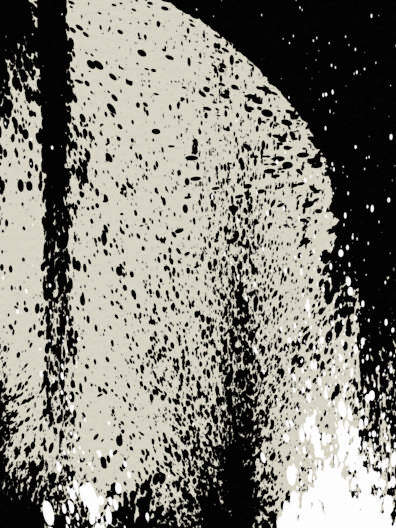
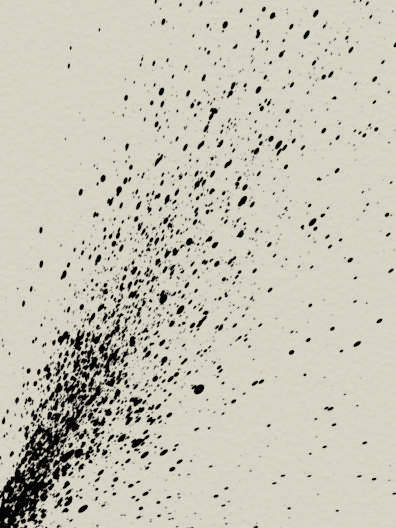
pics pupdate

diff --git a/content/hub/about/inking.th.md b/content/hub/about/inking.th.md
@@ -3,7 +3,7 @@ title: "การใช้หมึก"
 type: docs
 weight: 4
 ---
-พื้นที่ทำงาน Inking ถูกสร้างขึ้นสำหรับงานสายโดยเจตนา เป็นขั้นตอนที่การวาดภาพหยุดเป็นเพียงการสำรวจและเริ่มมุ่งมั่น: การควบคุมจังหวะ ความคมชัดของขอบที่ชัดเจน และเครื่องหมายที่ต้องรักษารูปร่างด้วยความมั่นใจ
+พื้นที่ทำงาน Inking ถูกสร้างขึ้นสำหรับการทำงานตามเส้นโดยเจตนาหรือความวุ่นวายที่วุ่นวาย เป็นขั้นตอนที่การวาดภาพหยุดเป็นเพียงการสำรวจและเริ่มมุ่งมั่น: การควบคุมจังหวะ ความคมชัดของขอบที่ชัดเจน และเครื่องหมายที่ต้องรักษารูปร่างด้วยความมั่นใจ หรือปล่อยตัวไปกับการสาดน้ำ เส้นเป็นวง รอยขีดข่วนปลายปากกาแห้ง และลายเส้นซูมิที่ดุร้าย
 
 ด้านล่างนี้คือเครื่องมือและโหมดบางส่วนที่ทำให้สิ่งนี้เป็นไปได้
 
@@ -18,7 +18,7 @@ weight: 4
 
 ## พรีเซ็ตการประดิษฐ์ตัวอักษร
 
-โหมดการเขียนลายมือบรรจงจะเปลี่ยนเครื่องมือแปรงเป็นการลากปากกาสิ่วอย่างต่อเนื่อง แทนที่จะเป็นการตบเบาๆ เป็นแถว ค่าที่ตั้งไว้ล่วงหน้าเกี่ยวกับการประดิษฐ์ตัวอักษรที่แถมมายังใช้มุมเอียงของสไตลัสเป็นแกนพิเศษในการควบคุม ดังนั้นการลากจึงไม่เพียงตอบสนองต่อแรงกดเท่านั้น แต่ยังรวมถึงวิธีการจับปากกาอีกด้วย มีประโยชน์สำหรับเครื่องหมายที่มีรูปทรงแน่นหนาซึ่งจำเป็นต้องอ่านเป็นริบบิ้นหมึกเส้นเดียว แม้ว่ามุมและแรงกดจะเปลี่ยนไปก็ตาม
+โหมดการเขียนลายมือบรรจงจะเปลี่ยนเครื่องมือแปรงเป็นการลากปากกาสิ่วอย่างต่อเนื่อง แทนที่จะเป็นการตบเบาๆ เป็นแถว ค่าที่ตั้งไว้ล่วงหน้าเกี่ยวกับการประดิษฐ์ตัวอักษรที่แถมมายังใช้มุมเอียงของสไตลัสเป็นแกนพิเศษในการควบคุม ดังนั้นการลากจึงไม่เพียงตอบสนองต่อแรงกดเท่านั้น แต่ยังรวมถึงวิธีการจับปากกาด้วย มีประโยชน์สำหรับเครื่องหมายที่มีรูปทรงแน่นหนาซึ่งจำเป็นต้องอ่านเป็นริบบิ้นหมึกเส้นเดียว แม้ว่ามุมและแรงกดจะเปลี่ยนไปก็ตาม
 
 ![calligraphic-01](/images/strokes/ink-calligraphic_share.jpg)
 
@@ -50,4 +50,4 @@ weight: 4
 
 ออกแบบมาสำหรับการสะบัดท่าทางและสเปรย์กระจายทิศทาง ขึ้นอยู่กับความเร็ว แรงกด และระยะห่าง จังหวะอาจมีตั้งแต่การกระจายเล็กน้อยและเบาไปจนถึงหยดที่หนักกว่า มีประโยชน์สำหรับงานพื้นผิวและการตกแต่งขั้นสุดท้ายที่แสดงออก
 
-![flick-01](/images/strokes/flick_final_compressed.jpg)
+![flick-01](/images/strokes/flick_share.jpg)

diff --git a/content/hub/about/inking.fr.md b/content/hub/about/inking.fr.md
@@ -3,7 +3,7 @@ title: "Encrage"
 type: docs
 weight: 4
 ---
-L’espace de travail Encrage est conçu pour un travail en ligne délibéré. C'est l'étape où le dessin cesse d'être exploratoire et commence à devenir engagé : des traits contrôlés, une définition claire des bords et des marques qui doivent conserver leur forme en toute confiance.
+L’espace de travail Inking est conçu pour le travail en ligne délibéré ou le chaos d’encre. C'est l'étape où le dessin cesse d'être exploratoire et commence à devenir engagé : des traits contrôlés, une définition claire des bords et des marques qui doivent conserver leur forme en toute confiance. Ou tout simplement lâchez-vous avec des éclaboussures expressives, des lignes en boucle, des rayures à la plume sèche et des traits de sumi sauvages.
 
 Vous trouverez ci-dessous quelques-uns des outils et modes qui rendent cela possible.
 
@@ -42,7 +42,7 @@ Inspiré de la plume Waverly, le préréglage tolère des mouvements rapides et 
 
 ## Astuce prédéfinie
 
-La ligne morte d’un stylo à dessin technique. Largeur constante, bords nets et peu ou pas de variation de trait. Utile pour les lignes de construction, les diagrammes, le lettrage et les travaux graphiques contrôlés où l'uniformité compte plus que l'expression. Certaines de nos animations préférées utilisent cette ligne.
+La ligne morte d'un stylo à dessin technique. Largeur constante, bords nets et peu ou pas de variation de trait. Utile pour les lignes de construction, les diagrammes, le lettrage et les travaux graphiques contrôlés où l'uniformité compte plus que l'expression. Certaines de nos animations préférées utilisent cette ligne.
 
 ![ink-03](/images/strokes/ink-tip_share.jpg)
 
@@ -50,4 +50,4 @@ La ligne morte d’un stylo à dessin technique. Largeur constante, bords nets e
 
 Conçu pour les gestes effleurants et les pulvérisations directionnelles dispersées. En fonction de la vitesse, de la pression et de l'espacement, les coups peuvent aller d'une diffusion subtile et légère à des gouttelettes plus lourdes. Utile pour le travail de texture et les touches finales expressives.
 
-![flick-01](/images/strokes/flick_final_compressed.jpg)
+![flick-01](/images/strokes/flick_share.jpg)

diff --git a/content/hub/about/inking.ru.md b/content/hub/about/inking.ru.md
@@ -3,7 +3,7 @@ title: "Чернила"
 type: docs
 weight: 4
 ---
-Рабочее пространство Inking создано для целенаправленной работы с линиями. Это этап, на котором рисунок перестает быть исследовательским и начинает становиться целенаправленным: контролируемые штрихи, четкое определение краев и отметки, которые должны уверенно сохранять свою форму.
+Рабочее пространство для рукописного ввода создано для продуманной работы с линиями или для создания чернильного хаоса. Это этап, на котором рисунок перестает быть исследовательским и начинает становиться целенаправленным: контролируемые штрихи, четкое определение краев и отметки, которые должны уверенно сохранять свою форму. Или просто дайте волю выразительным брызгам, петляющим линиям, царапинам сухим пером и диким мазкам суми.
 
 Ниже приведены некоторые инструменты и режимы, которые делают это возможным.
 
@@ -50,4 +50,4 @@ weight: 4
 
 Предназначен для жестов и рассеянных направленных распылений. В зависимости от скорости, давления и расстояния удары могут варьироваться от тонких и легких разброса до более тяжелых капель. Полезен для текстурных работ и выразительных завершающих штрихов.
 
-![flick-01](/images/strokes/flick_final_compressed.jpg)
+![flick-01](/images/strokes/flick_share.jpg)

diff --git a/content/hub/made-in-lumio/_index.th.md b/content/hub/made-in-lumio/_index.th.md
@@ -2,4 +2,6 @@
 title: "ผลิตในลูมิ-โอ"
 type: docs
 ---
-Lumi ได้รับการพัฒนาผ่านการใช้งานในชีวิตประจำวัน ดังนั้นภาพวาด การศึกษา และผลงานการผลิตที่แสดงที่นี่จึงไม่ใช่การจำลองทางการตลาด นี่เป็นตัวอย่างประเภทของรูปภาพที่ซอฟต์แวร์ได้รับการจัดรูปแบบเพื่อรองรับ
+Lumi ได้รับการพัฒนาผ่านการใช้งานในชีวิตประจำวัน ดังนั้นภาพวาด การศึกษา และผลงานการผลิตที่แสดงที่นี่จึงไม่ใช่การจำลองทางการตลาด นี่เป็นตัวอย่างประเภทของรูปภาพที่ซอฟต์แวร์ได้รับการจัดรูปแบบเพื่อรองรับ ส่วนนี้ยังคงกระจัดกระจายและพัฒนา แต่เมื่อเวลาผ่านไปส่วนนี้จะเติบโตไปพร้อมกับ Lumi เองเมื่อแอปพลิเคชันมีรูปแบบที่เสถียรมากขึ้น
+
+![loops](/images/gallery/loops.jpg)

diff --git a/content/hub/about/inking.pl.md b/content/hub/about/inking.pl.md
@@ -3,7 +3,7 @@ title: "Tuszowanie"
 type: docs
 weight: 4
 ---
-Przestrzeń robocza Inking została stworzona z myślą o celowej pracy liniowej. Jest to etap, na którym rysowanie przestaje być odkrywcze, a zaczyna wymagać zaangażowania: kontrolowane pociągnięcia, wyraźna definicja krawędzi i znaki, które muszą pewnie trzymać swój kształt.
+Przestrzeń robocza Inking została stworzona z myślą o celowej pracy liniowej lub atramentowym chaosie. Jest to etap, na którym rysowanie przestaje być odkrywcze, a zaczyna wymagać zaangażowania: kontrolowane pociągnięcia, wyraźna definicja krawędzi i znaki, które muszą pewnie trzymać swój kształt. Lub po prostu uwolnij się dzięki wyrazistemu rozpryskiwaniu, zapętlonym liniom, zadrapaniom suchą stalówką i dzikim uderzeniom sumi.
 
 Poniżej znajdują się niektóre narzędzia i tryby, które to umożliwiają.
 
@@ -50,4 +50,4 @@ Martwa linia pióra do rysowania technicznego. Stała szerokość, czyste krawę
 
 Zaprojektowany do wykonywania gestów i rozproszonych sprayów kierunkowych. W zależności od prędkości, ciśnienia i odstępów, uderzenia mogą wahać się od subtelnego i lekkiego rozproszenia po cięższe rzucane kropelki. Przydatny do prac teksturalnych i wyrazistych wykończeń.
 
-![flick-01](/images/strokes/flick_final_compressed.jpg)
+![flick-01](/images/strokes/flick_share.jpg)

diff --git a/content/hub/about/inking.it.md b/content/hub/about/inking.it.md
@@ -3,7 +3,7 @@ title: "Inchiostrazione"
 type: docs
 weight: 4
 ---
-L'area di lavoro Inchiostrazione è progettata per il lavoro in linea intenzionale. È la fase in cui il disegno smette di essere esplorativo e inizia a diventare impegnativo: tratti controllati, definizione chiara dei bordi e segni che devono mantenere la loro forma con sicurezza.
+L'area di lavoro di inchiostrazione è progettata per lavori di linea intenzionali o caos di inchiostro. È la fase in cui il disegno smette di essere esplorativo e inizia a diventare impegnativo: tratti controllati, definizione chiara dei bordi e segni che devono mantenere la loro forma con sicurezza. Oppure semplicemente scatenati con schizzi espressivi, linee sinuose, graffi con pennino asciutto e tratti selvaggi di sumi.
 
 Di seguito sono riportati alcuni degli strumenti e delle modalità che lo rendono possibile.
 
@@ -50,4 +50,4 @@ La linea morta di un pennarello da disegno tecnico. Larghezza uniforme, bordi pu
 
 Progettato per gesti rapidi e getti direzionali sparsi. A seconda della velocità, della pressione e della spaziatura, i tratti possono variare da una dispersione lieve e leggera a goccioline lanciate più pesanti. Utile per lavori materici e ritocchi finali espressivi.
 
-![flick-01](/images/strokes/flick_final_compressed.jpg)
+![flick-01](/images/strokes/flick_share.jpg)

diff --git a/content/hub/about/inking.de.md b/content/hub/about/inking.de.md
@@ -3,7 +3,7 @@ title: "Einfärben"
 type: docs
 weight: 4
 ---
-Der Freihand-Arbeitsbereich ist für bewusste Linienarbeit konzipiert. Es ist die Phase, in der das Zeichnen aufhört, forschend zu sein, und beginnt, sich zu engagieren: kontrollierte Striche, klare Kantendefinition und Markierungen, die ihre Form souverän beibehalten müssen.
+Der Freihand-Arbeitsbereich ist für bewusste Linienarbeit oder Tintenchaos konzipiert. Es ist die Phase, in der das Zeichnen aufhört, forschend zu sein, und beginnt, sich zu engagieren: kontrollierte Striche, klare Kantendefinition und Markierungen, die ihre Form souverän beibehalten müssen. Oder lassen Sie sich einfach mit ausdrucksstarken Spritzern, geschlungenen Linien, trockenen Federkratzern und wilden Sumi-Strichen austoben.
 
 Nachfolgend finden Sie einige der Tools und Modi, die dies ermöglichen.
 
@@ -50,4 +50,4 @@ Die Deadline eines technischen Zeichenstifts. Gleichbleibende Breite, saubere Ka
 
 Konzipiert für schnippende Gesten und verstreute Richtungssprays. Je nach Geschwindigkeit, Druck und Abstand können die Striche von subtiler und leichter Streuung bis hin zu schwereren Tröpfchen reichen. Nützlich für Strukturarbeiten und ausdrucksstarke Feinarbeiten.
 
-![flick-01](/images/strokes/flick_final_compressed.jpg)
+![flick-01](/images/strokes/flick_share.jpg)

diff --git a/content/hub/about/inking.es.md b/content/hub/about/inking.es.md
@@ -3,7 +3,7 @@ title: "entintado"
 type: docs
 weight: 4
 ---
-El espacio de trabajo Inking está diseñado para el trabajo de líneas deliberado. Es la etapa en la que el dibujo deja de ser exploratorio y comienza a comprometerse: trazos controlados, definición clara de los bordes y marcas que deben mantener su forma con confianza.
+El espacio de trabajo Inking está diseñado para el trabajo de líneas deliberado o el caos entintado. Es la etapa en la que el dibujo deja de ser exploratorio y comienza a comprometerse: trazos controlados, definición clara de los bordes y marcas que deben mantener su forma con confianza. O simplemente déjate llevar con salpicaduras expresivas, líneas en bucle, rasguños de puntas secas y trazos salvajes de sumi.
 
 A continuación se muestran algunas de las herramientas y modos que lo hacen posible.
 
@@ -50,4 +50,4 @@ La fecha límite de un lápiz de dibujo técnico. Ancho constante, bordes limpio
 
 Diseñado para gestos rápidos y sprays direccionales dispersos. Dependiendo de la velocidad, la presión y el espaciado, los trazos pueden variar desde una dispersión sutil y ligera hasta gotas arrojadas más pesadas. Útil para trabajos de textura y toques finales expresivos.
 
-![flick-01](/images/strokes/flick_final_compressed.jpg)
+![flick-01](/images/strokes/flick_share.jpg)

diff --git a/content/hub/made-in-lumio/_index.ru.md b/content/hub/made-in-lumio/_index.ru.md
@@ -2,4 +2,6 @@
 title: "Сделано в Люми-о"
 type: docs
 ---
-Lumi разрабатывается в результате ежедневного использования, поэтому представленные здесь картины, исследования и изделия не являются маркетинговыми макетами. Это примеры изображений, для поддержки которых создано программное обеспечение.
+Lumi разрабатывается в результате ежедневного использования, поэтому представленные здесь картины, исследования и изделия не являются маркетинговыми макетами. Это примеры изображений, для поддержки которых создано программное обеспечение. Этот раздел все еще немногочисленн и развивается, но со временем он будет расти вместе с самим Lumi, поскольку приложение приобретет более стабильную форму.
+
+![loops](/images/gallery/loops.jpg)

diff --git a/content/hub/about/inking.pt-br.md b/content/hub/about/inking.pt-br.md
@@ -3,7 +3,7 @@ title: "Tinta"
 type: docs
 weight: 4
 ---
-O espaço de trabalho Inking foi criado para trabalhos de linha deliberados. É a fase em que o desenho deixa de ser exploratório e passa a ser comprometido: traços controlados, definição clara de bordas e marcas que precisam manter sua forma com confiança.
+O espaço de trabalho Inking foi criado para trabalhos de linha deliberados ou para caos de tinta. É a fase em que o desenho deixa de ser exploratório e passa a ser comprometido: traços controlados, definição clara de bordas e marcas que precisam manter sua forma com confiança. Ou simplesmente solte-se com respingos expressivos, linhas em loop, arranhões de ponta seca e traços selvagens de sumi.
 
 Abaixo estão algumas das ferramentas e modos que tornam isso possível.
 
@@ -50,4 +50,4 @@ O prazo de uma caneta de desenho técnico. Largura consistente, bordas limpas e 
 
 Projetado para gestos rápidos e sprays direcionais dispersos. Dependendo da velocidade, pressão e espaçamento, os traços podem variar de dispersão sutil e leve a gotículas mais pesadas. Útil para trabalhos texturais e acabamentos expressivos.
 
-![flick-01](/images/strokes/flick_final_compressed.jpg)
+![flick-01](/images/strokes/flick_share.jpg)
